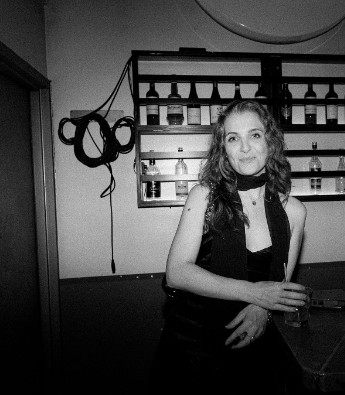
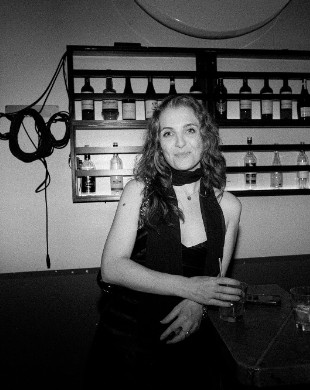
Center reply note, tighten headshot crop

diff --git a/index.html b/index.html
@@ -438,7 +438,7 @@
     transition: background .3s ease, color .3s ease, border-color .3s ease;
   }
   .contact__cta:hover { background: var(--cobalt); border-color: var(--cobalt); color: #fff; }
-  .contact__cta-wrap { display: flex; flex-direction: column; align-items: flex-start; gap: .6rem; }
+  .contact__cta-wrap { display: flex; flex-direction: column; align-items: center; gap: .6rem; }
   .contact__reply { margin: 0; font-size: .78rem; opacity: .5; letter-spacing: .06em; }
 
   .footer {